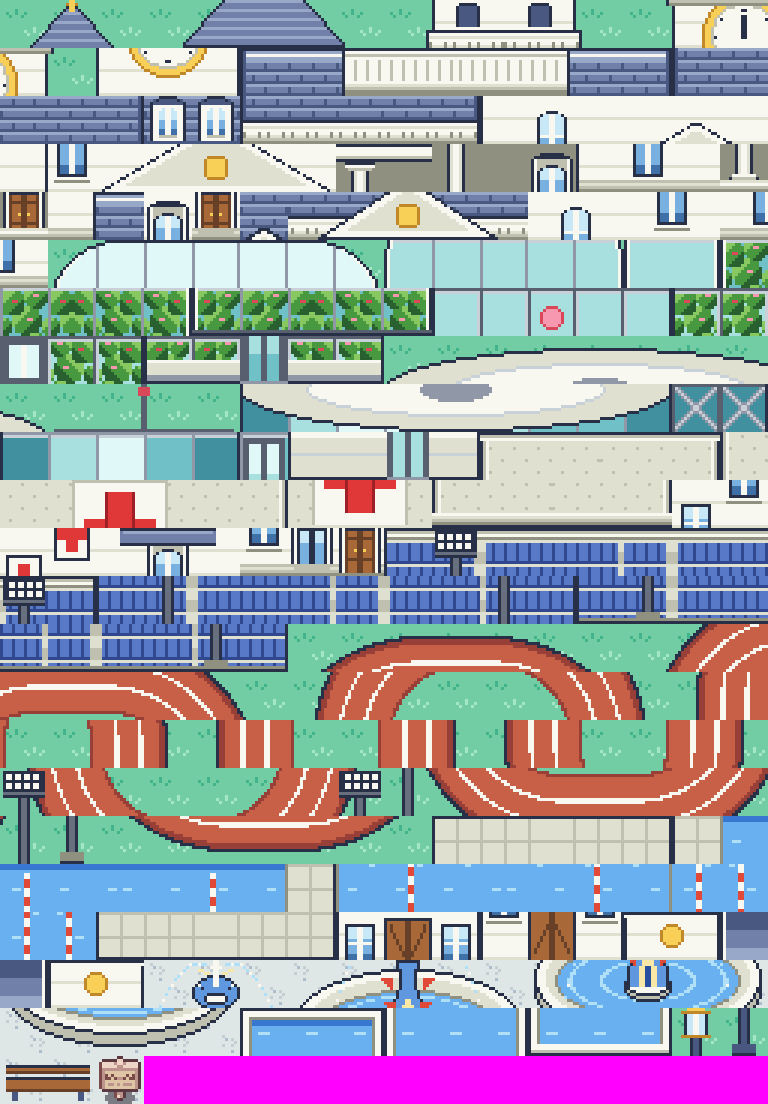
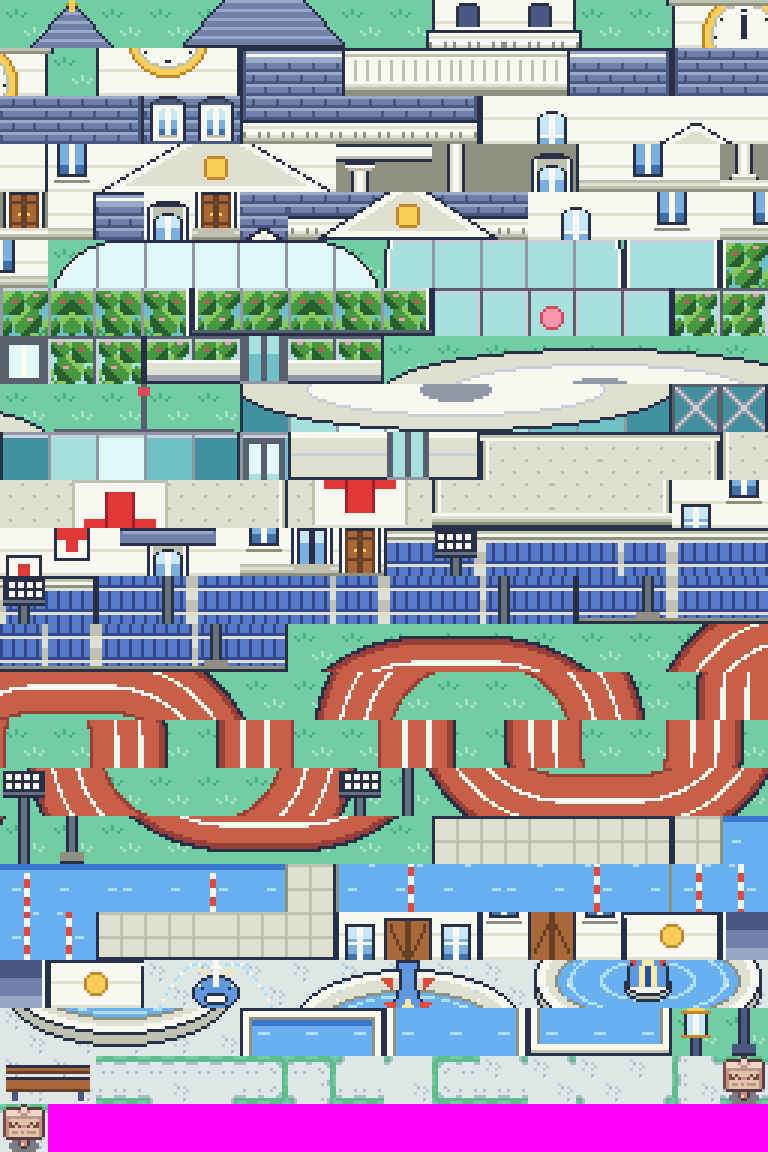
University: paving edges that join up at junctions, narrow paths and signs
Ground.lay() now picks each 8x8 quarter of a paved cell from the two cells it touches and the diagonal between them: outer corner, edge, plain, or a new inner corner (one drawn tile in the primary's paving palette, flipped for all four corners). Cells matching the primary's nine paving metatiles keep them; the 13 other mixes the campus has (junctions, 1-wide stretches) are campus tileset metatiles, and the signposts on the paving stand on their cell's own paving (2 more). Lawn notches with paving on three sides would be paved (the campus has none). Only paving and sign cells change (82); collision, events and the rooms don't. The README campus picture is re-rendered. Campus tileset: 358/384 tiles, 369/384 metatiles.

diff --git a/tools/hack/draw_university_tiles.py b/tools/hack/draw_university_tiles.py
@@ -960,6 +960,17 @@ class Tileset:
         self.tiles.append(idx)
         return (PRIMARY + len(self.tiles) - 1) | (FIRST_PAL + p) << 12
 
+    def raw_tile(self, idx):
+        """The entry (no palette bits) for a tile given as rows of color indices (another tileset's palette)."""
+        for hf in (0, 1):
+            for vf in (0, 1):
+                f = tuple(tuple(r[::-1]) if hf else r for r in (idx[::-1] if vf else idx))
+                if f in self.lookup:
+                    return (PRIMARY + self.lookup[f]) | hf << 10 | vf << 11
+        self.lookup[idx] = len(self.tiles)
+        self.tiles.append(idx)
+        return PRIMARY + len(self.tiles) - 1
+
     def quarter(self, im, x, y):
         return [self.tile(tile_pixels(im, x + dx, y + dy)) for dy in (0, 8) for dx in (0, 8)]
 
@@ -1005,7 +1016,8 @@ class Tileset:
         t, hf, vf, p = e & 0x3FF, e >> 10 & 1, e >> 11 & 1, e >> 12
         if t >= PRIMARY:
             idx = self.tiles[t - PRIMARY]
-            pal = [None] + list(self.pals[p - FIRST_PAL][1])
+            pal = [None] + list(self.pals[p - FIRST_PAL][1] if p >= FIRST_PAL else
+                                primary_tileset(self.primary)[1][p][1:])
         else:
             ptiles, ppals, _ = primary_tileset(self.primary)
             n = len(ptiles[0]) // 8
@@ -1083,6 +1095,50 @@ def cut_exterior(ts, stamps, MB):
     return out
 
 
+# --- Paving edges ----------------------------------------------------------------------------------------------------
+# The primary's paving (palette 1): its nine metatiles by the states of their quarters (TL, TR, BL, BR). A quarter is
+# 'outer' (grass on both sides it touches), 'horiz' (grass above/below), 'vert' (grass beside), 'plain', or 'inner'
+# (both sides paved, the diagonal not: where two paths meet).
+PRIMARY_PAVING = {
+    ('outer', 'horiz', 'vert', 'plain'): 0x165, ('horiz', 'horiz', 'plain', 'plain'): 0x166,
+    ('horiz', 'outer', 'plain', 'vert'): 0x167, ('vert', 'plain', 'vert', 'plain'): 0x16D,
+    ('plain', 'plain', 'plain', 'plain'): 0x16E, ('plain', 'vert', 'plain', 'vert'): 0x16F,
+    ('vert', 'plain', 'outer', 'horiz'): 0x175, ('plain', 'plain', 'horiz', 'horiz'): 0x176,
+    ('plain', 'vert', 'horiz', 'outer'): 0x177,
+}
+PAVE_PAL = 1 << 12
+HF = 1 << 10
+# The primary's quarter tiles for each corner of a cell (with the flips its metatiles use); the inner corners are drawn
+PAVE_QUARTERS = {
+    0: {'outer': 0x132, 'horiz': 0x133, 'vert': 0x152, 'plain': 0x143},
+    1: {'outer': 0x132 | HF, 'horiz': 0x133, 'vert': 0x152 | HF, 'plain': 0x153},
+    2: {'outer': 0x162, 'horiz': 0x163, 'vert': 0x152, 'plain': 0x153},
+    3: {'outer': 0x162 | HF, 'horiz': 0x163, 'vert': 0x152 | HF, 'plain': 0x143},
+}
+# Inner corners (palette 1 indices): the grass strips of the two paved neighbours meet in a 2x2 corner of grass, their
+# dotted lines turn it. Top-left (the diagonal above-left is lawn); bottom-left (below-left). Mirrored for the right.
+INNER_TL = ('f73' + '1' * 5, '773' + '1' * 5, '33' + '1' * 6) + ('1' * 8,) * 5
+INNER_BL = ('1' * 8,) * 5 + ('33' + '1' * 6, '773' + '1' * 5, 'f73' + '1' * 5)
+
+
+def paving_entries(ts, states):
+    """The four bottom-layer entries of a paved cell with these quarter states (the primary's own where it has
+    that metatile)."""
+    if states in PRIMARY_PAVING:
+        return primary_entries('gTileset_General_Frlg', PRIMARY_PAVING[states])
+    inner = {}
+    for corner, rows in ((0, INNER_TL), (2, INNER_BL)):
+        e = ts.raw_tile(tuple(tuple(int(c, 16) for c in r) for r in rows)) | PAVE_PAL
+        inner[corner], inner[corner + 1] = e, e ^ HF
+    return [inner[k] if s == 'inner' else PAVE_QUARTERS[k][s] | PAVE_PAL for k, s in enumerate(states)]
+
+
+def paving_metatiles(ts, needed):
+    """Campus tileset metatiles for the paving mixes in `needed` (quarter states): {states: id}."""
+    return {states: ts.metatile(paving_entries(ts, states), [0, 0, 0, 0], 0, LAYER_NORMAL)
+            for states in sorted(needed)}
+
+
 # --- Ground (the primary's metatiles) --------------------------------------------------------------------------------
 class Ground:
     """A grid of metatile ids: grass, forest, lone trees, paving with edges, flower beds, fences; stamps on top."""
@@ -1114,11 +1170,43 @@ class Ground:
                 self.paved.add((x, y))
                 self.used.add((x, y))
 
-    def lay(self):
-        for (x, y) in self.paved:
-            key = ((x, y - 1) in self.paved, (x, y + 1) in self.paved, (x - 1, y) in self.paved,
-                   (x + 1, y) in self.paved)
-            self.g[y][x] = self.EDGES.get(key, 0x16E)
+    def lay(self, pave_ids=None):
+        """Paving with its edges, quarter by quarter: each 8x8 quarter of a paved cell looks at the two cells it
+        touches and the diagonal between them (outer corner, edge, plain, or an inner corner where two paths meet),
+        so junctions, 1-wide stretches and dead ends get their dotted edge lines too. A cell whose quarters match one
+        of the primary's nine paving metatiles uses it; any other mix is one of the campus tileset's paving metatiles
+        (`pave_ids`: quarter states -> id). Mixes not in `pave_ids` are collected in `self.pave_needed` (drawn as
+        plain paving meanwhile)."""
+        self.pave_needed, self.sign_needed, self.pave_states = set(), set(), {}
+        p = self.paved
+        for (x, y) in p:
+            def q(dy, dx):
+                v, h, d = (x, y + dy) in p, (x + dx, y) in p, (x + dx, y + dy) in p
+                return 'outer' if not v and not h else 'horiz' if not v else 'vert' if not h else \
+                    'plain' if d else 'inner'
+            states = (q(-1, -1), q(-1, 1), q(1, -1), q(1, 1))
+            self.pave_states[(x, y)] = states
+            if states in PRIMARY_PAVING:
+                self.g[y][x] = PRIMARY_PAVING[states]
+            elif pave_ids is not None and states in pave_ids:
+                self.g[y][x] = pave_ids[states]
+            else:
+                self.pave_needed.add(states)
+                self.g[y][x] = 0x16E
+
+    def fill_notches(self):
+        """Paves any free lawn cell with paving on three sides or more (a notch the paths left), until none is left."""
+        changed = True
+        while changed:
+            changed = False
+            for y in range(self.h):
+                for x in range(self.w):
+                    if (x, y) in self.used:
+                        continue
+                    sides = sum((x + dx, y + dy) in self.paved for dx, dy in ((1, 0), (-1, 0), (0, 1), (0, -1)))
+                    if sides >= 3:
+                        self.path(x, y, x + 1, y + 1)
+                        changed = True
 
     def block(self, x0, y0, w, h):
         for y in range(y0, y0 + h):
@@ -1279,7 +1367,15 @@ def campus_ground(st, reserve=()):
     g.forest(41, CAMPUS_H - 4, CAMPUS_W, CAMPUS_H)
     for (x0, y0, x1, y1) in CAMPUS_PATHS:
         g.path(x0, y0, x1, y1)
-    g.lay()
+    # Fill the lawn notches the paths leave (not under buildings, the ranch, the stadium or the signs), then pave
+    for (name, x, y) in CAMPUS:
+        g.block(x, y, st[name]['w'], st[name]['h'])
+    g.block(48, 5, 10, 12)
+    g.block(4, 4, 22, 12)
+    for (x, y) in CAMPUS_SIGNS:
+        g.used.add((x, y))
+    g.fill_notches()
+    g.lay({tuple(k.split(',')): v for k, v in st.get('PAVING', {}).items()})
     stamp_solid = {}
     for (name, x, y) in CAMPUS:
         g.stamp(st[name], x, y)
@@ -1290,9 +1386,14 @@ def campus_ground(st, reserve=()):
     g.fence(48, 5, 58, 17, gap=(52, 54))
     g.block(4, 4, 22, 12)
     for (x, y) in CAMPUS_SIGNS:
-        # On the paving, the sign stands on paving (the primary's sign has grass under it)
+        # On the paving, the sign stands on that cell's paving, edges and all (the primary's sign has grass under it)
         if (x, y) in g.paved:
-            g.set(x, y, st['SIGN_ON_PAVING']['rows'][0][0])
+            key = ','.join(g.pave_states[(x, y)])
+            if key in st.get('SIGN_PAVING', {}):
+                g.set(x, y, st['SIGN_PAVING'][key])
+            else:
+                g.sign_needed.add(g.pave_states[(x, y)])
+                g.set(x, y, 0x003)
             stamp_solid[(x, y)] = 1
         else:
             g.set(x, y, 0x003)
@@ -2313,11 +2414,16 @@ def main():
     ext = Tileset('gTileset_CeladonUniversity', os.path.join(ROOT, 'data/tilesets/secondary/celadon_university'),
                   EXTERIOR_PALS, 'gTileset_General_Frlg', grass)
     ext_stamps = cut_exterior(ext, exterior_stamps(), MB)
-    # The primary's signpost (its top layer, its behavior) over the primary's paving instead of its grass
+    # The paving's junctions, 1-wide stretches and ends: the mixes of quarters the campus needs
+    g, _ = campus_ground(ext_stamps)
+    pave = paving_metatiles(ext, g.pave_needed)
+    ext_stamps['PAVING'] = {','.join(k): v for k, v in pave.items()}
+    # Signposts on the paving: the primary's signpost (its top layer, its behavior) over the cell's paving
+    g, _ = campus_ground(ext_stamps)
     sign = primary_entries('gTileset_General_Frlg', 0x003, 1)
-    sign_mid = ext.metatile(primary_entries('gTileset_General_Frlg', 0x16E), sign,
-                            behavior_of('gTileset_General_Frlg', 0x003), LAYER_COVERED)
-    ext_stamps['SIGN_ON_PAVING'] = {'w': 1, 'h': 1, 'rows': [[sign_mid]], 'solid': [[1]], 'doors': [], 'warps': []}
+    ext_stamps['SIGN_PAVING'] = {
+        ','.join(k): ext.metatile(paving_entries(ext, k), sign, behavior_of('gTileset_General_Frlg', 0x003),
+                                  LAYER_COVERED) for k in sorted(g.sign_needed)}
 
     # The room tilesets: the academic buildings and dorms; the Science Institute and the hospital
     rooms = make_rooms()
